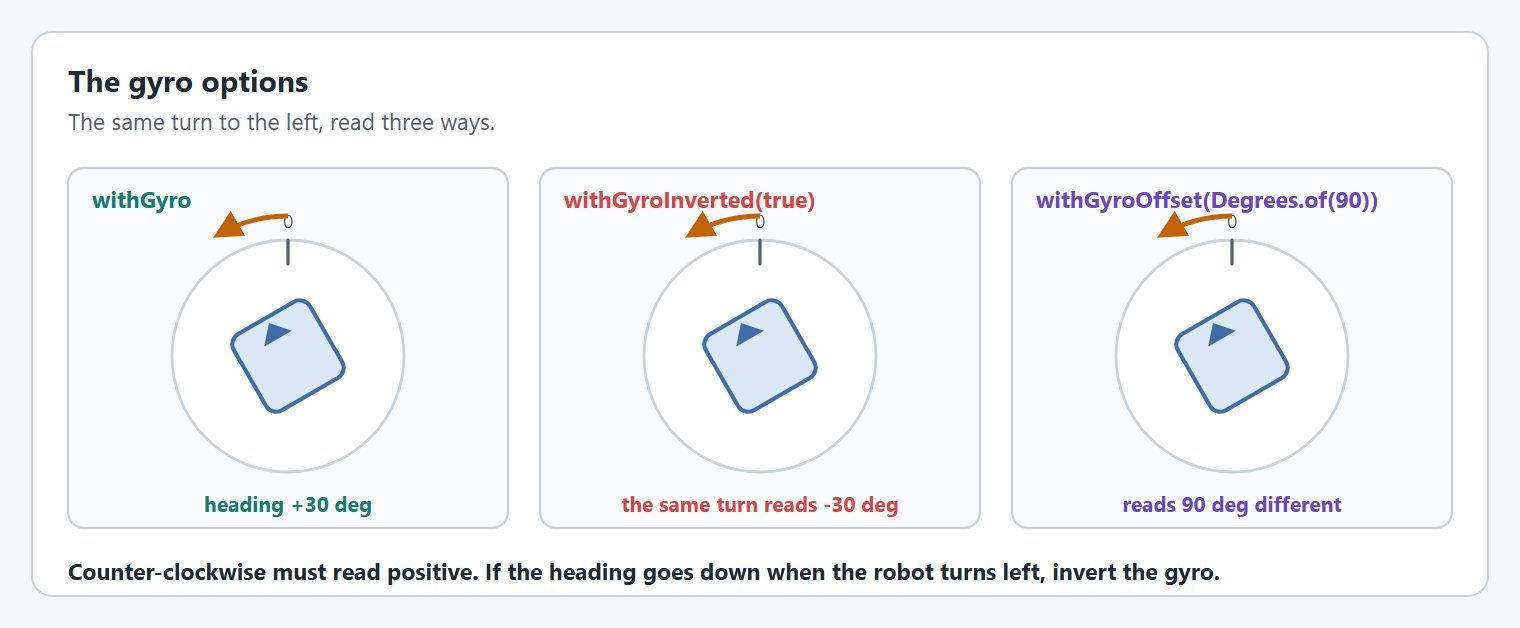
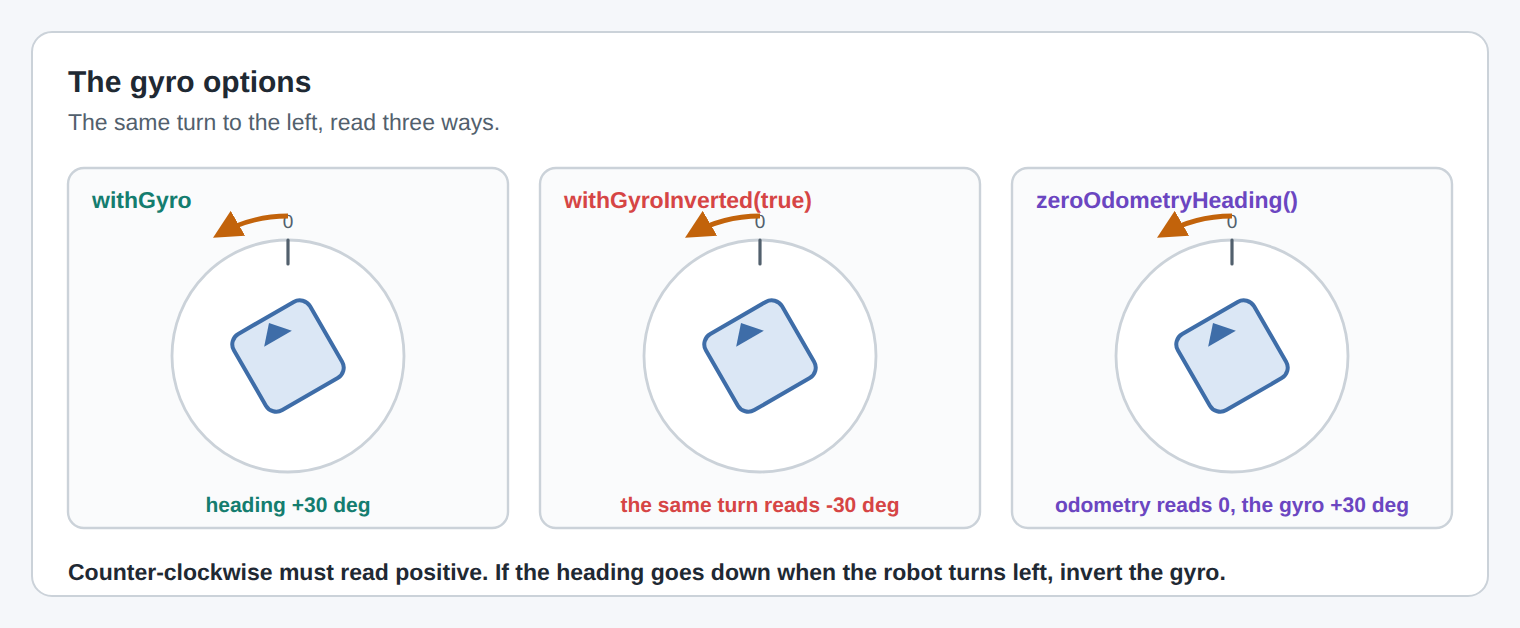
Swerve: odometry rotation for field relative driving, rotation and gyro telemetry, withRotation (#39)
* SwerveDriveConfig.withRotation, the same method as withGyro

* Swerve: field relative driving uses the odometry rotation, and telemetry has rotation and gyro

* resetOdometry leaves the gyro, and zeroOdometryHeading with zeroGyro the same

* Remove withGyroOffset from the gyro docs and pictures

---------

diff --git a/details/swerve-drive.md b/details/swerve-drive.md
@@ -185,8 +185,8 @@ These set what the drive does and return at once. They are what the commands abo
 | `setRobotRelativeChassisSpeeds(ChassisVelocities)` | Drive with speeds measured against the robot. An overload adds a feedforward force per module, for path followers. |
 | `setSwerveModuleStates(SwerveModuleVelocity[])`    | Set every module directly, skipping the kinematics.                                                                |
 | `lockPose()`                                       | Turn the wheels into an X so the robot is hard to push.                                                            |
-| `resetOdometry(Pose2d)`                            | Tell the drive where it is, and set the gyro to that heading.                                                      |
-| `zeroGyro()`                                       | Make the direction the robot faces now the new zero heading.                                                       |
+| `resetOdometry(Pose2d)`                            | Tell the drive where it is. The gyro keeps its reading.                                                            |
+| `zeroOdometryHeading()`, or `zeroGyro()`           | Make the direction the robot faces now the new zero heading.                                                       |
 | `addVisionMeasurement(Pose2d, double)`             | Correct the pose estimate with a vision measurement.                                                               |
 
 ## Asking where it is
@@ -196,6 +196,7 @@ These set what the drive does and return at once. They are what the commands abo
 | `getPose()`                                                         | The estimated position and heading on the field.                                        |
 | `getRobotRelativeSpeed()`, `getFieldRelativeSpeed()`                | How the robot is moving now.                                                            |
 | `getModuleStates()`, `getModulePositions()`                         | Each wheel's speed and angle, and how far it has rolled.                                |
+| `getRotation()`                                                     | The robot's rotation from odometry, the heading of `getPose()`.                         |
 | `getGyroRotation3d()`                                               | The robot's attitude from the gyro.                                                     |
 | `getDistanceFromPose(Pose2d)`, `getAngleDifferenceFromPose(Pose2d)` | How far the robot is from a pose.                                                       |
 | `getField2d()`                                                      | The `Field2d` the drive publishes its pose to. Use this one instead of making your own. |
@@ -216,13 +217,15 @@ The `withOptimization(true)` seen in the config above is a per-module flag, not 
 
 ## Gyro integration and field vs. robot relative speeds
 
-`SwerveDriveConfig.withGyro(Supplier<Rotation3d>)` is what lets `SwerveDrive` convert between field-relative and robot-relative `ChassisVelocities` (WPILib 2027's name for `ChassisSpeeds`). The supplier returns the gyro's full attitude, such as `pigeon::getRotation3d` or `imu::getRotation3d`: its yaw is the robot's heading, and its roll and pitch are the robot's tilt. Internally, `SwerveDrive` always drives the modules with robot-relative speeds; `setFieldRelativeChassisSpeeds` just rotates the requested speeds into the robot frame using the current heading before handing them to the same code path robot-relative callers use.
+`SwerveDriveConfig.withRotation(Supplier<Rotation3d>)`, or `withGyro`, which is the same method, gives `SwerveDrive` the gyro. The supplier returns the gyro's full attitude, such as `pigeon::getRotation3d` or `imu::getRotation3d`: its yaw is the robot's heading, and its roll and pitch are the robot's tilt. Odometry starts from the gyro's heading, and vision measurements can correct it.
+
+Internally, `SwerveDrive` always drives the modules with robot-relative speeds. `setFieldRelativeChassisSpeeds` rotates the requested speeds into the robot frame with `getRotation()`, the robot's rotation from odometry (the heading of `getPose()`), then hands them to the same code path robot-relative callers use. `getFieldRelativeSpeed()`, driving to a pose and `SwerveInputStream`'s heading control use the same rotation, so a vision correction to the pose's heading also corrects which way "forward" is. Without vision, it's the gyro's heading. `resetOdometry(pose)` and `zeroOdometryHeading()` (or `zeroGyro()`) reset that rotation and leave the gyro alone: the pose estimator keeps the offset between the two.
 
 ```java
 drive.setFieldRelativeChassisSpeeds(new ChassisVelocities(1.0, 0, 0));
 ```
 
-[`withGyroOffset` and `withGyroInverted`](mechanism-configs/swerve-drive-config.md#the-gyro) correct the gyro's zero and sign without touching your drive code. Both apply to the heading (the yaw).
+[`withGyroInverted`](mechanism-configs/swerve-drive-config.md#the-gyro) corrects the gyro's sign without touching your drive code. It applies to the heading (the yaw). There is no gyro offset: the pose estimator keeps the offset between the gyro and the pose, so set where the robot faces with the starting pose, `resetOdometry(pose)` or `zeroOdometryHeading()`.
 
 ### Gyros mounted on their side
 
@@ -241,7 +244,7 @@ config.withGyro(pigeon::getRotation3d)
       .withGyroHeadingAxis(GyroAxis.ROLL);
 ```
 
-The gyro's attitude is rotated into the robot's frame first, then `withGyroInverted` and `withGyroOffset` are applied to the resulting heading.
+The gyro's attitude is rotated into the robot's frame first, then `withGyroInverted` is applied to the resulting heading.
 
 ### Reading the heading
 
@@ -365,7 +368,7 @@ The auto-align gains, and the drive and azimuth motor gains, can be tuned from a
 
 ## Telemetry verbosity
 
-Like every other mechanism, `SwerveDriveConfig.withTelemetry(name, TelemetryVerbosity)` picks a preset bundle of fields to publish. `LOW` publishes everything a dashboard's swerve drive widget needs: the pose, the robot's rotation from the gyro, the current and desired chassis speeds and module states, and the modules' maximum speed. `MID` adds the field-relative chassis speeds, and `HIGH` the tuning keys. Each level includes everything the level below it publishes. Whenever NetworkTables output is on, `.type` reads `SwerveDrive`, so a dashboard can recognize the drive's table.
+Like every other mechanism, `SwerveDriveConfig.withTelemetry(name, TelemetryVerbosity)` picks a preset bundle of fields to publish. `LOW` publishes everything a dashboard's swerve drive widget needs: the pose, the robot's rotation from odometry, the gyro's rotation, the current and desired chassis speeds and module states, and the modules' maximum speed. `MID` adds the field-relative chassis speeds, and `HIGH` the tuning keys. Each level includes everything the level below it publishes. Whenever NetworkTables output is on, `.type` reads `SwerveDrive`, so a dashboard can recognize the drive's table.
 
 ```java
 config.withTelemetry("swerve", TelemetryVerbosity.HIGH);
@@ -374,7 +377,8 @@ config.withTelemetry("swerve", TelemetryVerbosity.HIGH);
 | Field                                      | NetworkTables key                   | `LOW` | `MID` | `HIGH` |
 | ------------------------------------------ | ----------------------------------- | :---: | :---: | :----: |
 | Pose                                       | `pose`                              |   ✓   |   ✓   |    ✓   |
-| Rotation from the gyro (`Rotation2d`)      | `rotation`                          |   ✓   |   ✓   |    ✓   |
+| Rotation from odometry (`Rotation2d`)      | `rotation`                          |   ✓   |   ✓   |    ✓   |
+| Gyro rotation (`Rotation2d`)               | `gyro`                              |   ✓   |   ✓   |    ✓   |
 | Current robot-relative ChassisVelocities   | `chassis/current`                   |   ✓   |   ✓   |    ✓   |
 | Desired robot-relative ChassisVelocities   | `chassis/desired`                   |   ✓   |   ✓   |    ✓   |
 | Current module states                      | `states/current`                    |   ✓   |   ✓   |    ✓   |

diff --git a/details/mechanism-configs/swerve-drive-config.md b/details/mechanism-configs/swerve-drive-config.md
@@ -28,13 +28,13 @@ drive.getConfig().withModuleStateOptimization(false);
 
 ## The gyro
 
-<figure><img src="../../.gitbook/assets/mech-swerve-gyro.png" alt="Three panels showing a robot turned 30 degrees counter-clockwise. With withGyro alone the heading reads plus 30 degrees. With withGyroInverted the same turn reads minus 30 degrees. With withGyroOffset of 90 degrees the heading reads 90 degrees different."><figcaption><p>The gyro options change how the same turn is read.</p></figcaption></figure>
+<figure><img src="../../.gitbook/assets/mech-swerve-gyro.png" alt="Three panels showing a robot turned 30 degrees counter-clockwise. With withGyro alone the heading reads plus 30 degrees. With withGyroInverted the same turn reads minus 30 degrees. After zeroOdometryHeading, the odometry heading that field relative driving uses reads 0 degrees while the gyro still reads plus 30 degrees."><figcaption><p>The gyro options change how the same turn is read.</p></figcaption></figure>
 
 | Option                                        | What it does                                                                                                                                                                               |
 | --------------------------------------------- | ------------------------------------------------------------------------------------------------------------------------------------------------------------------------------------------ |
-| `withGyro(Supplier<Rotation3d>)`              | Supplies the robot's attitude. Its yaw is the heading.                                                                                                                                     |
+| `withRotation(Supplier<Rotation3d>)`          | Supplies the robot's rotation from the gyro, as its attitude. Its yaw is the heading.                                                                                                      |
+| `withGyro(Supplier<Rotation3d>)`              | Same as `withRotation`.                                                                                                                                                                    |
 | `withGyroInverted(boolean)`                   | Flips the heading, for a gyro that reads clockwise as positive.                                                                                                                            |
-| `withGyroOffset(Angle)`                       | Adds a fixed angle to the heading.                                                                                                                                                         |
 | `withGyroHeadingAxis(GyroAxis)`               | Chooses which axis is the heading, for a gyro mounted on its side.                                                                                                                         |
 | `withGyroVelocity(Supplier<AngularVelocity>)` | Supplies the turn rate, used by [`withGyroAngularVelocityScaleFactor`](swerve-drive-config.md#withgyroangularvelocityscalefactor). Without it the turn rate is estimated from the heading. |
 

diff --git a/understanding/telemetry.md b/understanding/telemetry.md
@@ -158,7 +158,7 @@ A DataLog uses storage on the SystemCore, and logging everything fills it quickl
 
 A swerve drive publishes poses, chassis velocities and module states. Those are not single numbers, so they are published as NT4 structs that AdvantageScope understands directly.
 
-<figure><img src="../.gitbook/assets/telemetry-swerve-tree.png" alt="The NetworkTables tree for a swerve drive named swerve: its .type, then pose, rotation (the gyro, as a Rotation2d), maxModuleVelocity, chassis/current, chassis/desired, states/current and states/desired at LOW verbosity, chassis/field at MID, and a modules table with one entry per module holding its absolute encoder, its state and its drive and azimuth motors"><figcaption><p>What a swerve drive publishes, and at which verbosity.</p></figcaption></figure>
+<figure><img src="../.gitbook/assets/telemetry-swerve-tree.png" alt="The NetworkTables tree for a swerve drive named swerve: its .type, then pose, rotation (the robot's rotation from odometry, used for the module states, as a Rotation2d), gyro (the gyro's Rotation2d), maxModuleVelocity, chassis/current, chassis/desired, states/current and states/desired at LOW verbosity, chassis/field at MID, and a modules table with one entry per module holding its absolute encoder, its state and its drive and azimuth motors"><figcaption><p>What a swerve drive publishes, and at which verbosity.</p></figcaption></figure>
 
 ### Setting it up
 
@@ -166,14 +166,15 @@ A swerve drive publishes poses, chassis velocities and module states. Those are 
 
 | Config                        | Passed to                                        | Notable fields                                                                       |
 | ----------------------------- | ------------------------------------------------ | ------------------------------------------------------------------------------------ |
-| `SwerveDriveTelemetryConfig`  | `SwerveDriveConfig.withTelemetry(name, config)`  | `withPose()`, `withRotation()`, `withCurrentModuleStates()`, `withDesiredModuleStates()`, `withMaximumModuleVelocity()` |
+| `SwerveDriveTelemetryConfig`  | `SwerveDriveConfig.withTelemetry(name, config)`  | `withPose()`, `withRotation()`, `withGyro()`, `withCurrentModuleStates()`, `withDesiredModuleStates()`, `withMaximumModuleVelocity()` |
 | `SwerveModuleTelemetryConfig` | `SwerveModuleConfig.withTelemetry(name, config)` | `withAbsoluteEncoder()`, `withState()`                                               |
 
 ```java
 SwerveDriveTelemetryConfig driveTelemetryConfig = new SwerveDriveTelemetryConfig()
     .withTelemetryVerbosity(TelemetryVerbosity.HIGH)
     .withPose()
-    .withRotation() // the gyro's Rotation2d; withGyro() does the same
+    .withRotation() // the odometry rotation used for the module states, as a Rotation2d
+    .withGyro()     // the gyro's Rotation2d
     .withMaximumModuleVelocity()
     .withCurrentRobotRelativeChassisSpeeds()
     .withFieldRelativeChassisSpeeds()

diff --git a/how-to/how-do-i-use-a-gyro-mounted-on-its-side.md b/how-to/how-do-i-use-a-gyro-mounted-on-its-side.md
@@ -8,7 +8,7 @@ A swerve drive needs the robot's heading, which is rotation about the axis point
 
 ## Give the drive the gyro's full attitude
 
-`withGyro(...)` takes a `Supplier<Rotation3d>` (`WithGyro(std::function<Rotation3d()>)` in C++): the gyro's full 3D attitude, not just a yaw angle. Most gyros expose this directly, such as `pigeon::getRotation3d`.
+`withGyro(...)` takes a `Supplier<Rotation3d>` (`WithGyro(std::function<Rotation3d()>)` in C++): the gyro's full 3D attitude, not just a yaw angle. `withRotation(...)` (C++ `WithRotation`) is the same method under another name. Most gyros expose this directly, such as `pigeon::getRotation3d`.
 
 ## Pick the heading axis
 
@@ -83,7 +83,7 @@ This is the drive config from the [Swerve Drive tutorial](../tutorials/swerve-dr
 {% endtab %}
 {% endtabs %}
 
-YAMS rotates the gyro's attitude into the robot's frame before anything reads it. After that, the yaw of the result is the robot's heading, and its roll and pitch are the robot's tilt (which anti-tipping uses), whichever way the gyro is mounted. `withGyroInverted(...)` and `withGyroOffset(...)` apply to the resulting heading.
+YAMS rotates the gyro's attitude into the robot's frame before anything reads it. After that, the yaw of the result is the robot's heading, and its roll and pitch are the robot's tilt (which anti-tipping uses), whichever way the gyro is mounted. `withGyroInverted(...)` applies to the resulting heading.
 
 ## Read the heading
 
